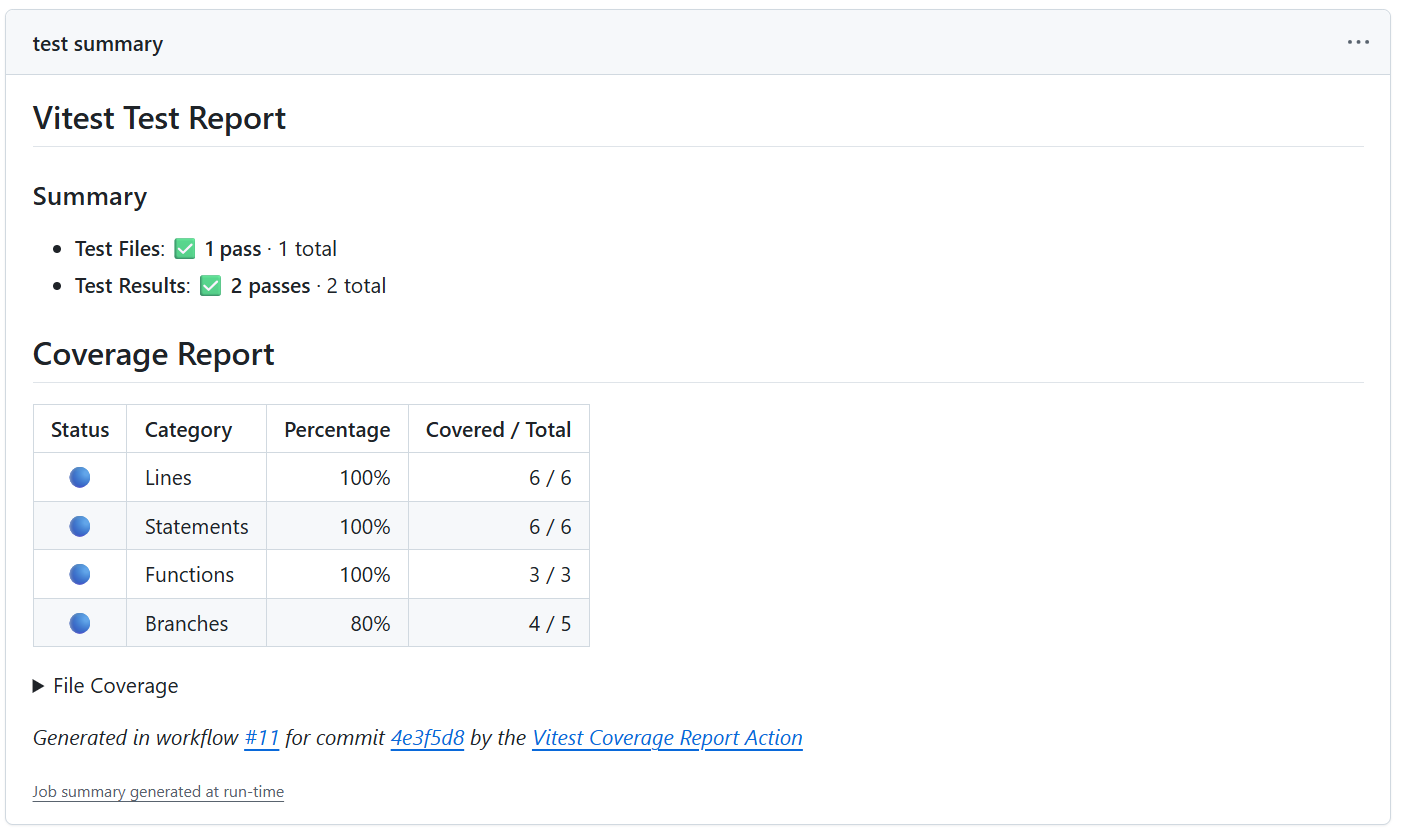
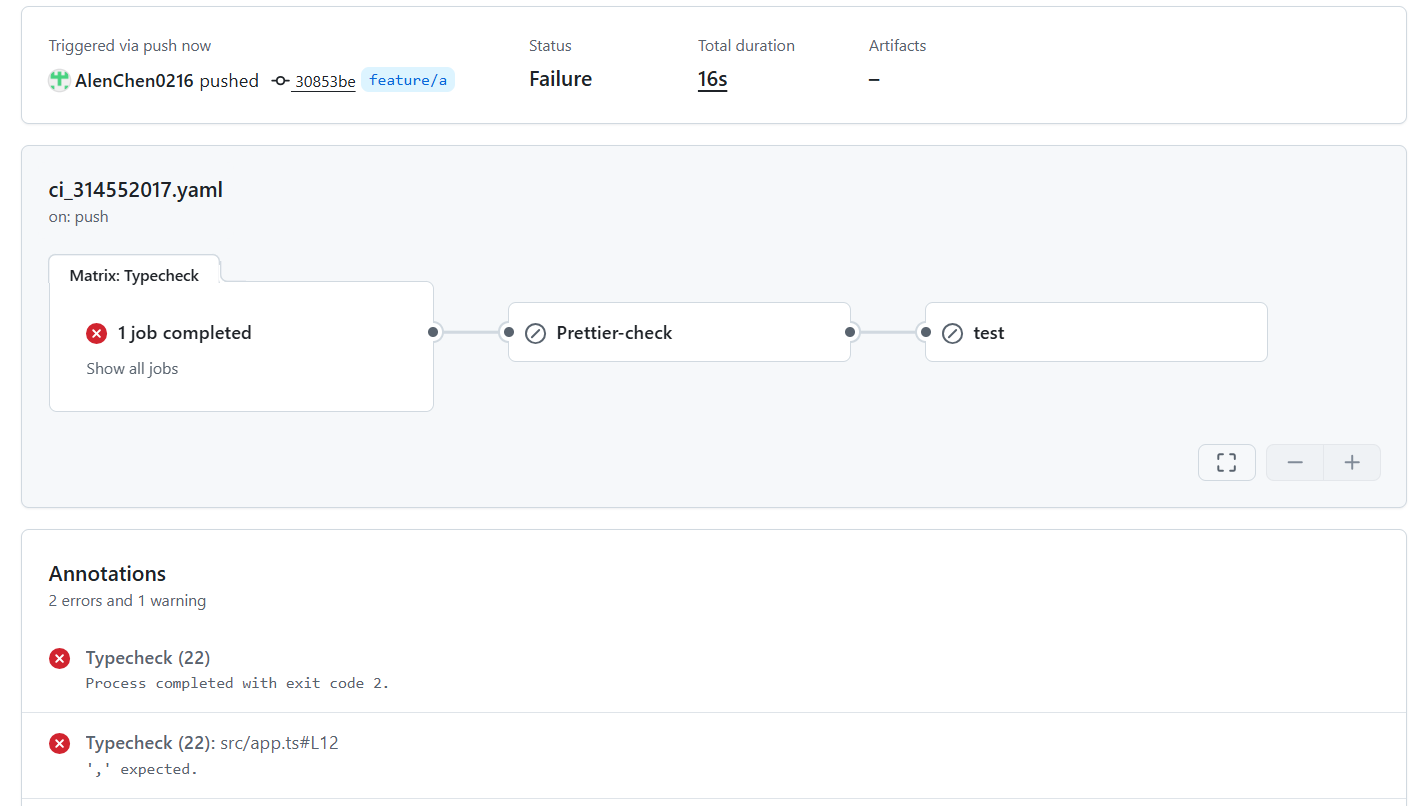
test error

diff --git a/src/app.ts b/src/app.ts
@@ -15,7 +15,7 @@ export function buildApp(options: FastifyServerOptions = {}) {
 
   APP_1.get('/health', async () => {
     return {
-      status: 'ok'
+      status: 'OK'
     };
   });
 

diff --git a/Report.md b/Report.md
@@ -83,7 +83,6 @@ jobs:
 _(在此貼上您成功執行 GitHub Actions Workflow 的畫面，特別要包含測試結果與 Coverage 顯示於 GitHub Actions 頁面的結果截圖)_
 
 ![pic1](./report_pic1.png)
-![pic2](./report_pic2.png)
 
 ---
 
@@ -104,7 +103,7 @@ _(請根據您實際操作的失敗案例進行填寫，以下提供填寫範本
 
 - 故意製造的錯誤與原因 :
 
-  我故意在 `src` 目錄下的 `/` api 回傳值 Dictionary中，加上 `;`。當這段修改 push 到 Github 後，Github Action將會嘗試執行上述定義好的 Workflow。此時， `npm run typecheck` 會顯示下圖的錯誤訊息並退出。根據 GitHub Actions 原則，這個步驟與後續尚未執行的步驟都會失敗或被終止。
+  我故意在 `src` 目錄下的 `/` api 回傳值 Dictionary中，加上 `;`。當這段修改 push 到 Github 後，Github Action將會嘗試執行上述定義好的 Workflow。此時， `npm run typecheck` 會顯示下圖的錯誤訊息並退出。根據 GitHub Actions 原則，這個步驟與後續尚未執行的步驟都會被終止。
 
 - 修正方式 :
 
@@ -112,13 +111,19 @@ _(請根據您實際操作的失敗案例進行填寫，以下提供填寫範本
 
 - 失敗結果截圖 :
 
-![pic5](./report_pic5.png)
+![pic2](./report_pic2.png)
 
 2. Prettier 格式錯誤 :
 
 - 故意製造的錯誤與原因 :
 
-  我故意在
+  我故意將 `src` 目錄下的 `server.ts` 中的所有 `=` 附近的空白刪除。當這段修改 push 到 Github 後，Github Action將會嘗試執行上述定義好的 Workflow。此時， `npm run format:check` 會顯示下圖的錯誤訊息並退出。根據 GitHub Actions 原則，這個步驟與後續尚未執行的步驟都會被終止。
+
+- 修正方式 :
+
+  將 `=` 附近刪除的空白補回來。
+
+- 失敗結果截圖 :
 
 3. 測試失敗 :
 
